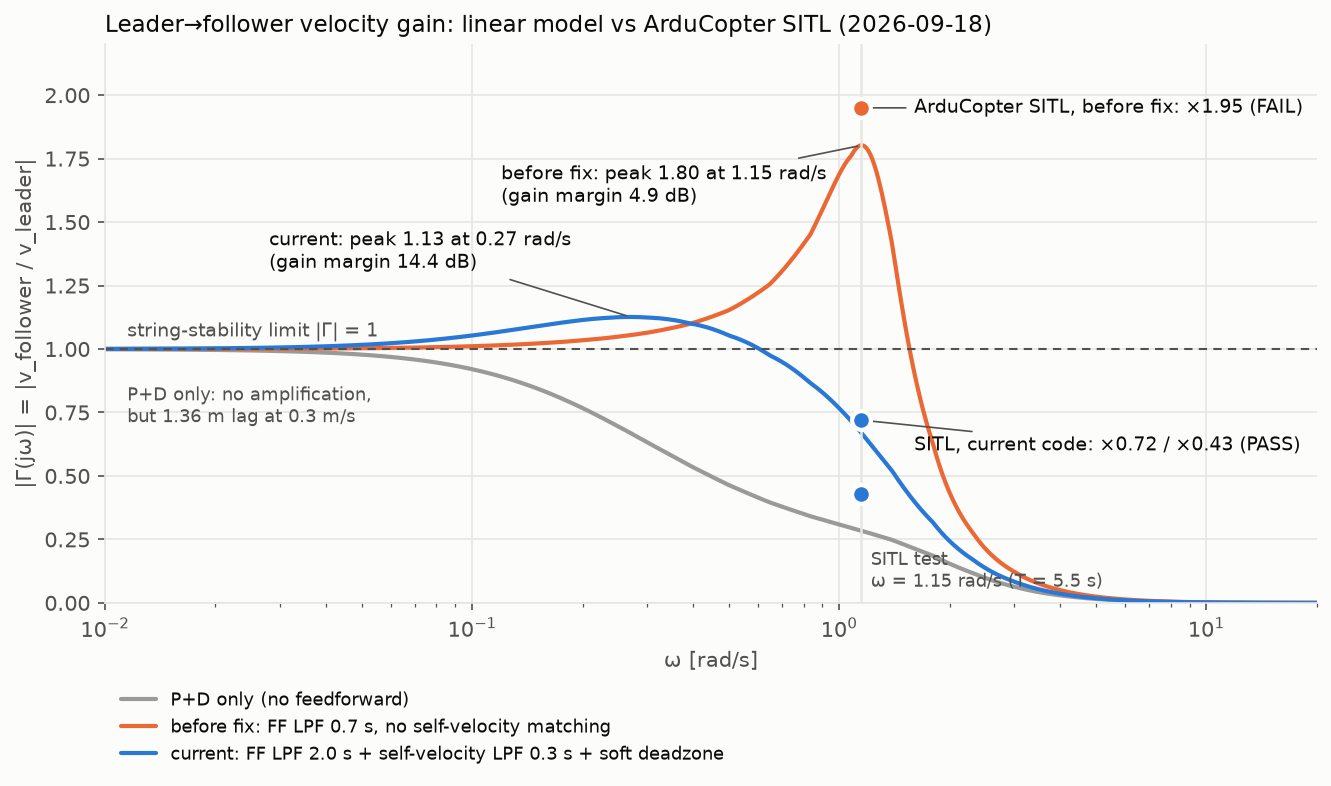
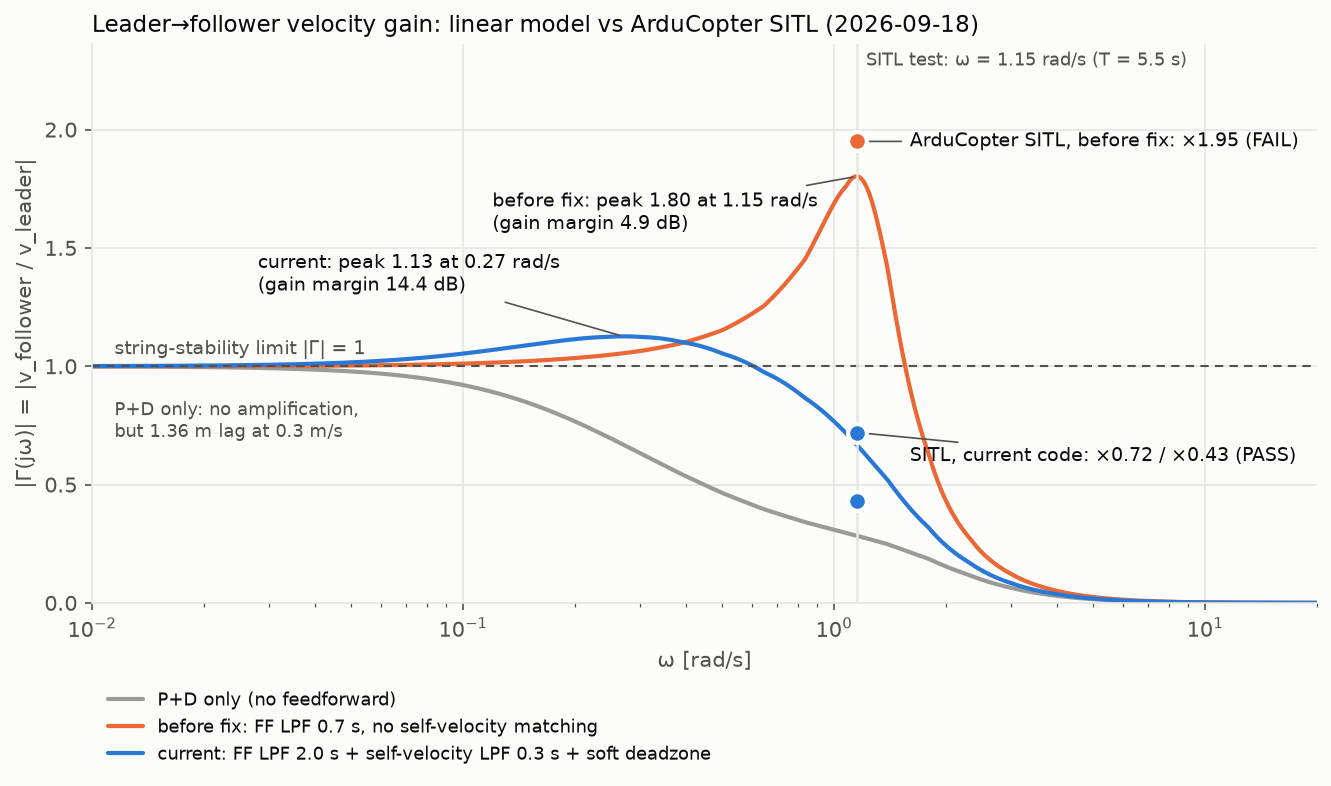
README 그림: SITL 시험 주파수 라벨 위치 조정
Claude-Session: https://claude.ai/code/session_019MbZa1cbmUMMw9NrAUi1Ly

diff --git a/analysis/readme_figures.py b/analysis/readme_figures.py
@@ -57,7 +57,7 @@ def fig_string_stability():
     ax.axhline(1.0, color=C["ink2"], lw=1.0, ls=(0, (4, 3)))
     ax.text(0.0115, 1.03, "string-stability limit |Γ| = 1", color=C["ink2"], fontsize=9, va="bottom")
     ax.axvline(SITL["omega"], color=C["grid"], lw=1.2)
-    ax.text(SITL["omega"] * 1.06, 0.04, "SITL test\nω = 1.15 rad/s (T = 5.5 s)", color=C["ink2"], fontsize=8.5, va="bottom")
+    ax.text(SITL["omega"] * 1.06, 2.33, "SITL test: ω = 1.15 rad/s (T = 5.5 s)", color=C["ink2"], fontsize=8.5, va="top")
     # SITL 실측점 (흰 테두리 2px)
     for key, col in (("before", C["orange"]), ("current", C["blue"])):
         for v in SITL[key]:
@@ -74,7 +74,7 @@ def fig_string_stability():
     ax.annotate(f"current: peak {gc:.2f} at {wc:.2f} rad/s\n(gain margin 14.4 dB)", (wc, gc), xytext=(0.028, 1.32), fontsize=9,
                 color=C["ink"], arrowprops=dict(arrowstyle="-", color=C["ink2"], lw=0.8))
     ax.text(0.0115, 0.86, "P+D only: no amplification,\nbut 1.36 m lag at 0.3 m/s", color=C["ink2"], fontsize=8.5, va="top")
-    ax.set_xscale("log"); ax.set_xlim(0.01, 20); ax.set_ylim(0, 2.2)
+    ax.set_xscale("log"); ax.set_xlim(0.01, 20); ax.set_ylim(0, 2.36)
     ax.set_xlabel("ω [rad/s]"); ax.set_ylabel("|Γ(jω)| = |v_follower / v_leader|")
     ax.set_title("Leader→follower velocity gain: linear model vs ArduCopter SITL (2026-09-18)", loc="left", fontsize=11)
     ax.legend(loc="upper left", fontsize=8.5, bbox_to_anchor=(0.0, -0.13), ncol=1)
